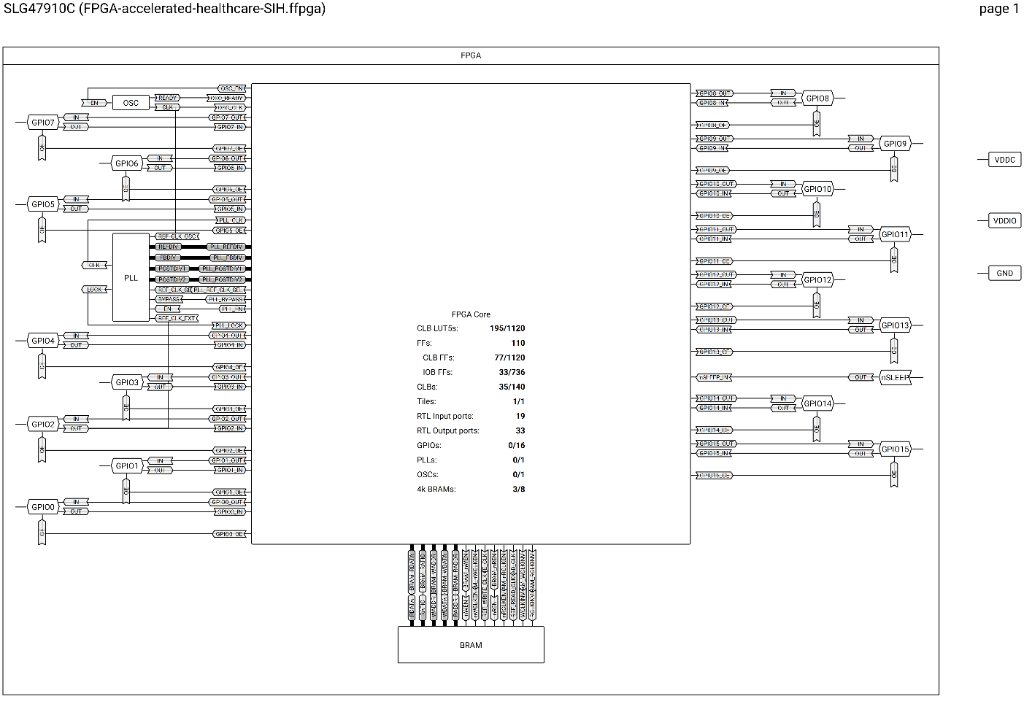
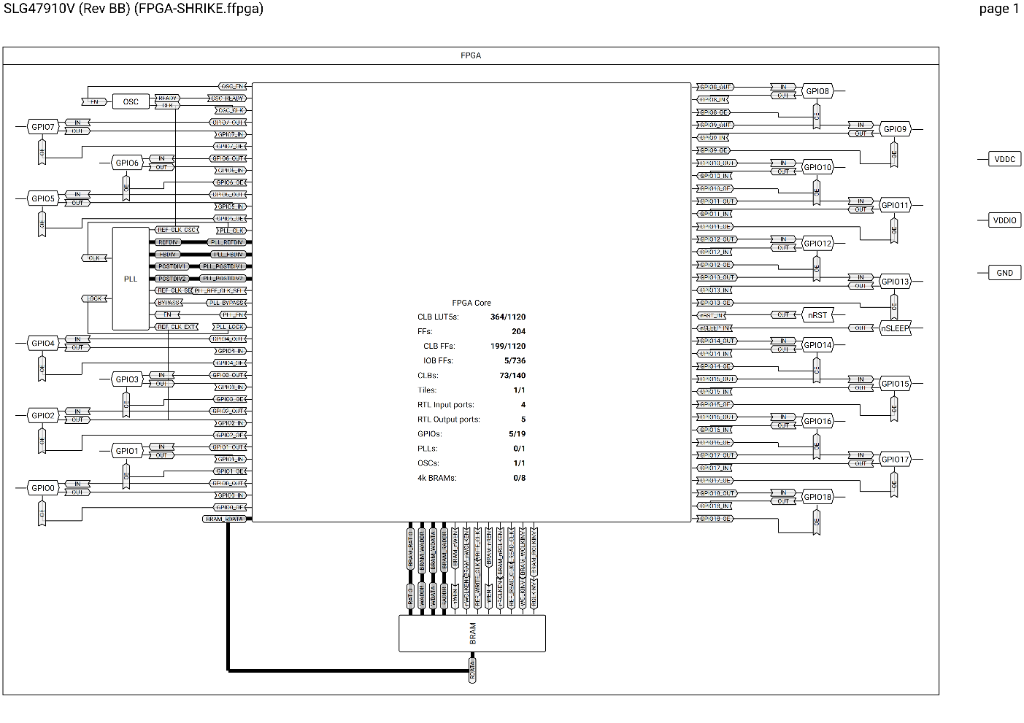
Update ForgeFPGA resource metrics and convert to single 8-tap filter

diff --git a/README.md b/README.md
@@ -18,7 +18,7 @@ An end-to-end heterogeneous System-on-Chip (SoC) combining **synthesizable Veril
 ## 🏷 Platform Status & Roadmap
 
 * **Verified Baseline:** [Xilinx Zynq-7000 (`xc7z020`)](hardware/zynq/) — Fully verified with 6/6 passing self-checking tests and static timing closed at 69.45 MHz (permanently tagged at `v1.0-zynq-SIH`).
-* **Active Port:** [ShrikeFi (ESP32-S3 + Renesas ForgeFPGA)](hardware/shrikefi/) — Affordable edge hardware platform. Post-synthesis fitter reports **363 / 1120 LUT5s (32.41%)**, 202 FFs and 75/140 CLBs, with 5 passing self-checking link test groups. Raw synthesis logs: [`hardware/shrikefi/synthesis_evidence/`](hardware/shrikefi/synthesis_evidence/) (read its README — an older, superseded build's numbers are also in there). Includes **fully integrated ESP32-S3 firmware** that streams live health telemetry via **USB UART & WiFi/MQTT**. (The firmware also programs the FPGA over **SPI2** at every boot using the Vicharak `Web_FPGA_programmer.ino` sequence; the boot log reaches `configuration COMPLETE! (46408 bytes loaded)` and the runtime link then answers its `0x55` probe, which is the real proof a configured design is running. See [`firmware/shrikefi/README.md`](firmware/shrikefi/README.md#fpga-delivery-how-the-bitstream-reaches-the-fpga).)
+* **Active Port:** [ShrikeFi (ESP32-S3 + Renesas ForgeFPGA)](hardware/shrikefi/) — Affordable edge hardware platform. Post-synthesis fitter reports **364 / 1120 LUT5s (32.50%)**, 204 FFs and 73/140 CLBs, with 5 passing self-checking link test groups. Raw synthesis logs: [`hardware/shrikefi/synthesis_evidence/`](hardware/shrikefi/synthesis_evidence/) (read its README — an older, superseded build's numbers are also in there). Includes **fully integrated ESP32-S3 firmware** that streams live health telemetry via **USB UART & WiFi/MQTT**. (The firmware also programs the FPGA over **SPI2** at every boot using the Vicharak `Web_FPGA_programmer.ino` sequence; the boot log reaches `configuration COMPLETE! (46408 bytes loaded)` and the runtime link then answers its `0x55` probe, which is the real proof a configured design is running. See [`firmware/shrikefi/README.md`](firmware/shrikefi/README.md#fpga-delivery-how-the-bitstream-reaches-the-fpga).)
 * **Clinical Intelligence & Biomarkers:** Fuses **mNEWS2 Clinical Triage (Royal College of Physicians)**, **PPG-derived Respiratory Rate (Charlton 2018)**, **Signal Quality Index (Karlen 2012 / Elgendi 2016)**, **Moran's Physiological Strain Index (PSI)**, **AHA PM2.5-HRV Autonomic Strain (Brook 2010)**, and **Neural PM2.5 Humidity Calibration (Si et al. 2019)**.
 * **Interactive Graphical Dashboard:** Standalone Windows desktop GUI (`shrikefi_dashboard.exe`) featuring a 60 FPS real-time optical PPG oscilloscope, live vital displays, and dual-mode operation (Live Hardware streaming + 6 simulated disaster profiles).
 
@@ -57,7 +57,7 @@ CI (`.github/workflows/ci.yml`) runs the Zynq testbench, the ShrikeFi testbench,
 ## 📌 Key Architectural Highlights
 
 * **Cycle-Accurate Hardware Timing:** Dedicated 50 MHz FPGA timer measures heartbeat Inter-Beat Intervals (IBI) with **20 nanoseconds resolution**, eliminating the 5–20 ms operating system scheduling jitter that corrupts Heart Rate Variability (HRV).
-* **Area-Optimized DSP Architecture:** Dual-channel 8-tap moving average filter implemented using an **$O(1)$ running-sum algorithm with wire-shift division (`>> 3`)**, requiring **0 DSP48 multiplier slices and 0 Block RAMs**.
+* **Area-Optimized DSP Architecture:** Single 8-tap moving average filter implemented using an **$O(1)$ running-sum algorithm with wire-shift division (`>> 3`)**, requiring **0 DSP48 multiplier slices and 0 Block RAMs**.
 * **Robust Bus Interfacing:** Standard ARM AMBA AXI4-Lite slave engine with **decoupled `AW` and `W` channel handshakes**, eliminating bus deadlocks on out-of-order interconnects. Includes **Write-1-to-Clear (W1C)** status registers to prevent interrupt race conditions.
 * **High-Accuracy On-Device TinyML (INT8):** 2-hidden-layer micro-architecture ($6 \to 24 \to 16 \to 3$) requiring only **619 bytes** of parameter storage, reaching **88.47% validation accuracy** on a held-out synthetic validation set (see [Reproducibility](#-reproducibility--evidence-provenance)) with **97.32% FP32↔INT8 tier agreement**, and executing in **0.44 µs per inference** (measured, `-O2`, x86-64 host; ESP32-S3 target timing not yet measured) with zero cloud dependencies.
 * **Multi-Disaster Resilience (Tailored for India):**
@@ -88,7 +88,7 @@ The system operates across four coordinated processing tiers, moving from raw ph
 │                              FPGA PROGRAMMABLE LOGIC (50 MHz RTL CORE)                              │
 │                                                                                                      │
 │   ┌───────────────────────────────────┐    8-Bit SPI (mode 0)  ┌──────────────────────────────────┐  │
-│   │ Dual 8-Tap Moving Average Filters │◄───────────────────────┤ Memory-Mapped Register Interface │  │
+│   │ Single 8-Tap Moving Avg Filter    │◄───────────────────────┤ Memory-Mapped Register Interface │  │
 │   │ (O(1) Running Sum, 0 DSP Slices)  │                        │ 0x00: REG_RED_RAW                │  │
 │   └─────────────────┬─────────────────┘                        │ 0x04: REG_RED_FILTERED           │  │
 │                     │                                          │ 0x08: REG_IBI_CYCLES (20ns tick) │  │
@@ -116,7 +116,7 @@ The system operates across four coordinated processing tiers, moving from raw ph
 
 ## ⚙ FPGA Hardware Microarchitecture (Vendor-Agnostic Core)
 
-### 1. Dual-Channel 8-Tap Moving Average Filter (`moving_average_8tap.v`)
+### 1. Single 8-Tap Moving Average Filter (`moving_average_8tap.v`)
 To eliminate optical baseline wandering and high-frequency motion artifacts from raw photoplethysmography (PPG) data, the accelerator implements a hardware moving-average FIR filter:
 
 * **Difference Equation:**
@@ -322,9 +322,9 @@ Post-synthesis compilation results from **Renesas ForgeFPGA Workshop v6.55** tar
 
 ![Renesas ForgeFPGA Resource Footprint](docs/images/forgefpga_utilization.png)
 
-* **Logic LUT5 Usage:** **363 / 1120 CLB LUT5s (32.41%)** — **67.59% of logic fabric remains free** for expanded DSP and filtering.
-* **Registers / Flip-Flops:** **202 Flip-Flops** (198 CLB FFs @ 17.68% + 4 IOB FFs @ 0.54%).
-* **CLB Macrocells:** **75 / 140 Blocks (53.57%)** — CLB occupancy is balanced. The SPI design runs from the on-chip oscillator, so the PLL is **free (0/1)**.
+* **Logic LUT5 Usage:** **364 / 1120 CLB LUT5s (32.50%)** — **67.50% of logic fabric remains free** for expanded DSP and filtering.
+* **Registers / Flip-Flops:** **204 Flip-Flops** (199 CLB FFs @ 17.77% + 5 IOB FFs @ 0.68%).
+* **CLB Macrocells:** **73 / 140 Blocks (52.14%)** — CLB occupancy is balanced. The SPI design runs from the on-chip oscillator, so the PLL is **free (0/1)**.
 * **DSP Multipliers & BRAM:** **0 DSP Multipliers, 0 Block RAMs** (synthesized purely from logic).
 
 > **Footnote — the 443-LUT figure quoted by older revisions of this file, the
@@ -341,6 +341,9 @@ Post-synthesis compilation results from **Renesas ForgeFPGA Workshop v6.55** tar
 
 #### Synthesized SLG47910C Macrocell Top-Level Core Schematic:
 ![Renesas ForgeFPGA SLG47910C Schematic](docs/images/forgefpga_chip_schematic.png)
+
+#### Device Floorplan & Block Placement:
+![Renesas ForgeFPGA Device Floorplan](docs/images/forgefpga_floorplan.png)
 
 ---
 
@@ -710,7 +713,7 @@ gtkwave hardware/shrikefi/shrikefi_sim.vcd hardware/shrikefi/presentation.gtkw
 ```
 
 ### What You'll See
-- **Zynq**: AXI4-Lite register transactions, dual 8-tap moving average filters (0 DSP/0 BRAM), 4-state peak detector FSM, beat interrupt + IBI cycles (20 ns resolution)
+- **Zynq**: AXI4-Lite register transactions, single 8-tap moving average filter (0 DSP/0 BRAM), 4-state peak detector FSM, beat interrupt + IBI cycles (20 ns resolution)
 - **ShrikeFi**: 8-bit SPI FPGA↔MCU link (mode 0, one byte per sample), same filter/peak detector RTL, beat flag in bit 7 of the MISO byte, IBI derived on the MCU
 
 For the commands that reproduce each waveform and test result, see [Reproducibility & Evidence Provenance](#-reproducibility--evidence-provenance)..
